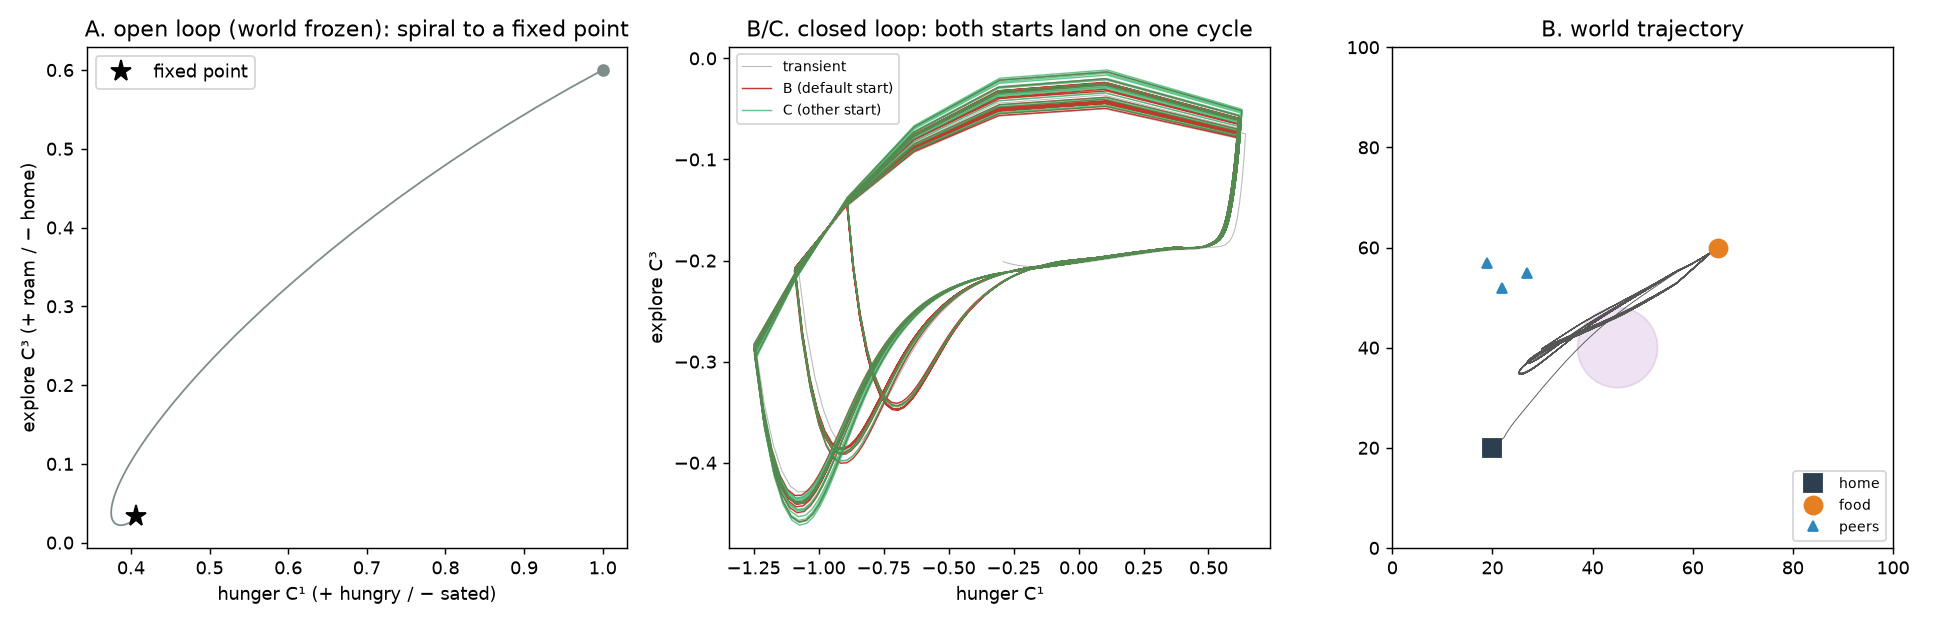
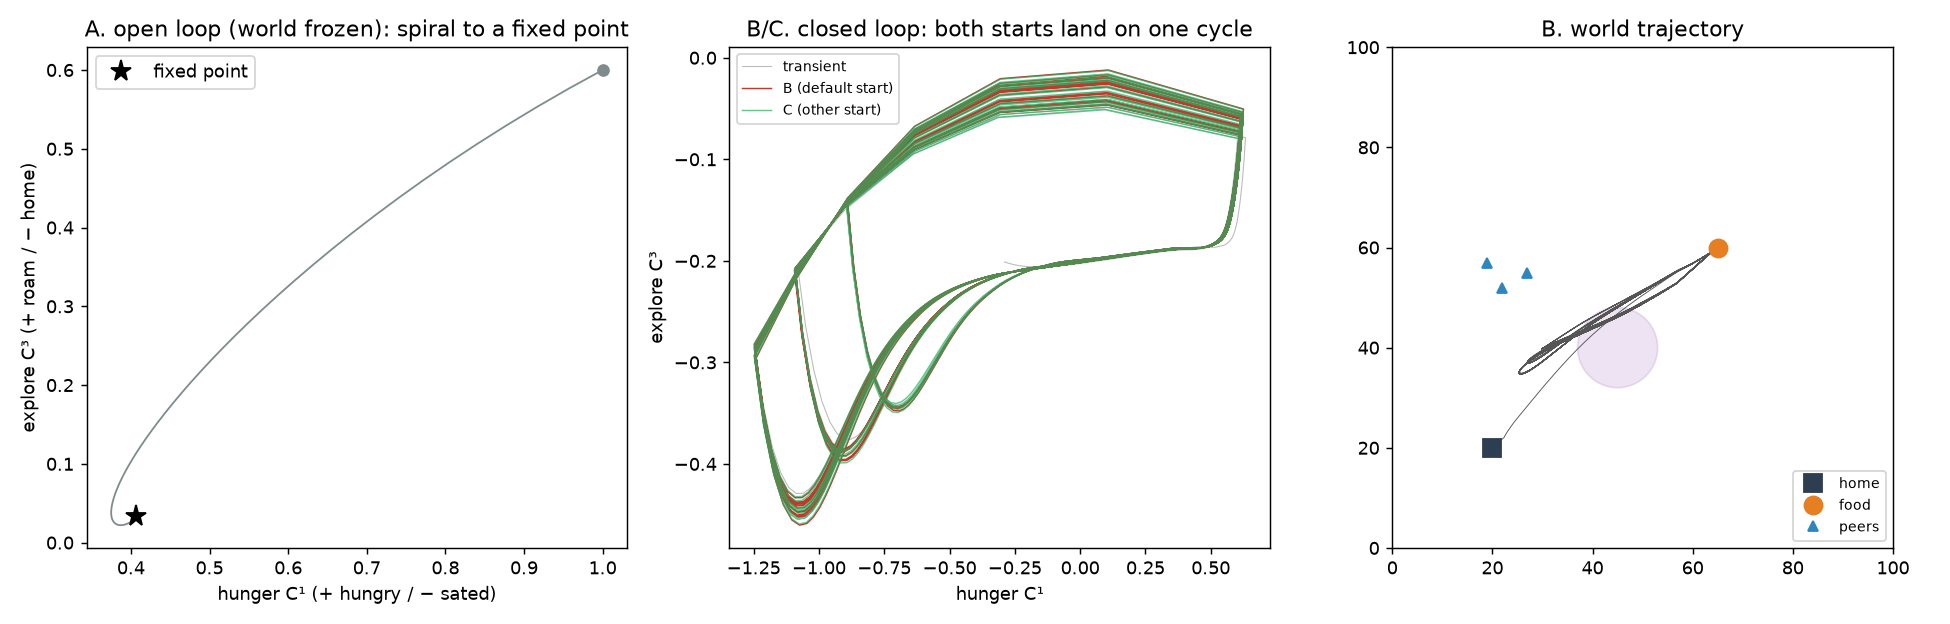
Run experiments in parallel; re-run E1-E6 under the current model
experiments/common.py gains pmap(): independent runs go to a process pool
(explicit fork context; Python 3.14 defaults to forkserver). E1, E3, E6 and
E8 use it, and run_all.sh starts all experiments at once with per-experiment
logs. Full suite: ~3 min instead of ~25 on 12 cores. Seeded runs give
identical results; verified serial == parallel for E3, E6 and E8.

E1-E6 re-run after the frame law: README numbers updated, and the E2/E6
reading text corrected (reactive 10-20 s; gossip timing beyond two hops is
at noise level).

diff --git a/experiments/e8_sequence_memory.py b/experiments/e8_sequence_memory.py
@@ -18,7 +18,7 @@ import os
 os.environ.setdefault("OPENBLAS_NUM_THREADS", "1")
 import numpy as np  # noqa: E402
 
-from common import outdir, plt, save, write_summary  # noqa: E402
+from common import outdir, plt, pmap, save, write_summary  # noqa: E402
 
 from cliffnpc.arena import NPC_FACTION, Arena, ArenaConfig  # noqa: E402
 from cliffnpc.config import LTMConfig  # noqa: E402
@@ -49,43 +49,48 @@ def replay_outcomes(log, n_npcs, horizon_ticks=20):
 CONDITIONS = {"lambda=2": LTMConfig(loss_aversion=2.0),
               "lambda=1": LTMConfig(loss_aversion=1.0),
               "off": None}
+def one_run(job):
+    """One (condition, seed) arena run; returns its stats (and the arena kept for plots)."""
+    name, sd = job
+    ltm_cfg = CONDITIONS[name]
+    use = ltm_cfg is not None
+    ar = Arena(ArenaConfig(seed=sd, ltm=ltm_cfg))
+    log = ar.run(T)
+    n = ar.cfg.n_npcs
+    r = dict(
+        pain=float(log["pain"][:, :n].mean()),
+        engagements=len(ar.engagements),
+        solo=sum(e["n_max"] == 1 for e in ar.engagements),
+        npc_injury=float(sum(e["npc_taken"] for e in ar.engagements)),
+        immobile=float((~log["mobile"][:, :n]).mean()),
+    )
+    if use:
+        r["replay"] = float((log["replay"][:, :n] >= 0).mean())
+        ev = [e for a in ar.agents[:n] for e in a.ltm.events]
+        r["stored_app"] = sum(e["what"] == "stored" and e["kind"] == APPETITIVE for e in ev)
+        r["stored_av"] = sum(e["what"] == "stored" and e["kind"] == AVERSIVE for e in ev)
+        r["merged"] = sum(e["what"] == "merged" for e in ev)
+        r["recalls"] = sum(e["what"] == "recalled" for e in ev)
+        r["recall_app"] = sum(e["what"] == "recalled" and e["kind"] == APPETITIVE for e in ev)
+        r["recall_av"] = sum(e["what"] == "recalled" and e["kind"] == AVERSIVE for e in ev)
+        av = [e for e in ev if e["what"] == "recalled" and e["kind"] == AVERSIVE]
+        r["relief_pain"] = float(np.mean([e["pain_now"] for e in av])) if av else float("nan")
+        r["relief_painless"] = float(np.mean([e["pain_now"] < 0.05 for e in av])) if av else float("nan")
+        d_rep, d_rand = replay_outcomes(log, n)
+        r["dpain_replay"], r["dpain_random"] = float(d_rep.mean()), float(d_rand.mean())
+        sigs = []
+        for a in ar.agents:
+            sp = a.ltm.build_space()
+            sigs.append(sp.signature if sp else (0, 0))
+        r["signatures"] = sigs
+    return name, r, (ar if (sd == SEEDS[0] and name == "lambda=2") else None)
+
+
 rows = {name: [] for name in CONDITIONS}
 keep = None
-for name, ltm_cfg in CONDITIONS.items():
-    use = ltm_cfg is not None
-    for sd in SEEDS:
-        ar = Arena(ArenaConfig(seed=sd, ltm=ltm_cfg))
-        log = ar.run(T)
-        n = ar.cfg.n_npcs
-        r = dict(
-            pain=float(log["pain"][:, :n].mean()),
-            engagements=len(ar.engagements),
-            solo=sum(e["n_max"] == 1 for e in ar.engagements),
-            npc_injury=float(sum(e["npc_taken"] for e in ar.engagements)),
-            immobile=float((~log["mobile"][:, :n]).mean()),
-        )
-        if use:
-            r["replay"] = float((log["replay"][:, :n] >= 0).mean())
-            ev = [e for a in ar.agents[:n] for e in a.ltm.events]
-            r["stored_app"] = sum(e["what"] == "stored" and e["kind"] == APPETITIVE for e in ev)
-            r["stored_av"] = sum(e["what"] == "stored" and e["kind"] == AVERSIVE for e in ev)
-            r["merged"] = sum(e["what"] == "merged" for e in ev)
-            r["recalls"] = sum(e["what"] == "recalled" for e in ev)
-            r["recall_app"] = sum(e["what"] == "recalled" and e["kind"] == APPETITIVE for e in ev)
-            r["recall_av"] = sum(e["what"] == "recalled" and e["kind"] == AVERSIVE for e in ev)
-            av = [e for e in ev if e["what"] == "recalled" and e["kind"] == AVERSIVE]
-            r["relief_pain"] = float(np.mean([e["pain_now"] for e in av])) if av else float("nan")
-            r["relief_painless"] = float(np.mean([e["pain_now"] < 0.05 for e in av])) if av else float("nan")
-            d_rep, d_rand = replay_outcomes(log, n)
-            r["dpain_replay"], r["dpain_random"] = float(d_rep.mean()), float(d_rand.mean())
-            sigs = []
-            for a in ar.agents:
-                sp = a.ltm.build_space()
-                sigs.append(sp.signature if sp else (0, 0))
-            r["signatures"] = sigs
-            if sd == SEEDS[0] and name == "lambda=2":
-                keep = ar
-        rows[name].append(r)
+for name, r, ar in pmap(one_run, [(n, sd) for n in CONDITIONS for sd in SEEDS]):
+    rows[name].append(r)
+    keep = ar if ar is not None else keep
 
 # ---- memory Clifford space of one NPC -------------------------------------
 a0 = next(a for a in keep.agents if a.faction == NPC_FACTION and (a.ltm.slots["active"] == 1).sum() >= 4)

diff --git a/experiments/e6_village.py b/experiments/e6_village.py
@@ -23,7 +23,7 @@ import time
 os.environ.setdefault("OPENBLAS_NUM_THREADS", "1")  # tiny matrices: threads only add overhead
 import numpy as np  # noqa: E402
 
-from common import outdir, plt, save, write_summary
+from common import outdir, plt, pmap, save, write_summary
 
 from cliffnpc import algebra as ga
 from cliffnpc.config import Config
@@ -77,13 +77,21 @@ def demote_episodic(v):
     lod["demoted"] = (i, n_eps, folds_before, np.linalg.norm(a.g - g_before))
 
 
+def one_village(job):
+    """One (gossip, event) village run; returns the village, its log and the LOD records."""
+    gossip, event = job
+    v = build(gossip, event)
+    lod_events = {T_PROMOTE: promote_far, T_DEMOTE: demote_episodic} if (gossip and event) else {}
+    log = v.run(T, lod_events)
+    return job, v, log, dict(lod)
+
+
 t0 = time.time()
 runs = {}
-for gossip in (True, False):
-    for event in (True, False):
-        v = build(gossip, event)
-        lod_events = {T_PROMOTE: promote_far, T_DEMOTE: demote_episodic} if (gossip and event) else {}
-        runs[gossip, event] = (v, v.run(T, lod_events))
+for job, v_, log_, lod_ in pmap(one_village, [(g, e) for g in (True, False) for e in (True, False)]):
+    runs[job] = (v_, log_)
+    if job == (True, True):
+        lod.update(lod_)
 elapsed = time.time() - t0
 
 v, log = runs[True, True]
@@ -198,9 +206,10 @@ lines += [
     f"(plus {dfold} folded earlier on eviction); |delta g| from the consolidation = {ddg:.4f}.",
     "",
     "Reading:",
-    "  * With gossip the footprint travels outward along the social graph: the time to reach half its",
-    "    peak grows with every hop, and the size drops sharply after the first hop.  Reputation and",
-    "    fear spread as a change in how people feel, not as stored facts.",
+    "  * With gossip the footprint travels outward along the social graph: it reaches the first hops",
+    "    later and much smaller (see half-peak times and peaks above).  Beyond about two hops it is at",
+    "    the level of behavioural noise, so timing there is not meaningful.  Reputation and fear spread",
+    "    as a change in how people feel, not as stored facts.",
     "  * Gossip also comforts the victims: the directly hit villagers end up with a smaller footprint",
     "    than without gossip, because their neighbours' calmer metrics pull them back.",
     "  * Without gossip, footprints beyond distance 0 are not transmitted metric.  They come from",

diff --git a/experiments/common.py b/experiments/common.py
@@ -2,7 +2,10 @@
 
 from __future__ import annotations
 
+import multiprocessing
+import os
 import sys
+from concurrent.futures import ProcessPoolExecutor
 from pathlib import Path
 
 import matplotlib
@@ -15,6 +18,25 @@ sys.path.insert(0, str(ROOT))
 
 DRIVE_LABELS = ["hunger e1", "social e2", "explore e3", "threat e4"]
 DRIVE_COLORS = ["#c0392b", "#2e86c1", "#27ae60", "#8e44ad"]
+
+
+def pmap(fn, items, workers: int | None = None) -> list:
+    """Map `fn` over independent runs in parallel processes, results in order.
+
+    Runs are seeded, so the results are identical to a serial loop.  Uses the
+    "fork" start method explicitly: Python 3.14 defaults to "forkserver", which
+    would re-execute the experiment script in every worker.  Set
+    CLIFFNPC_WORKERS=1 to run serially (e.g. for debugging).
+    """
+    items = list(items)
+    if workers is None:
+        workers = int(os.environ.get("CLIFFNPC_WORKERS", os.cpu_count() or 1))
+    workers = max(1, min(workers, len(items)))
+    if workers == 1:
+        return [fn(x) for x in items]
+    ctx = multiprocessing.get_context("fork")
+    with ProcessPoolExecutor(max_workers=workers, mp_context=ctx) as ex:
+        return list(ex.map(fn, items))
 
 
 def outdir(name: str) -> Path:

diff --git a/experiments/e3_order.py b/experiments/e3_order.py
@@ -23,7 +23,7 @@ Three learning-law variants separate the sources of order dependence:
 
 import numpy as np
 
-from common import outdir, plt, save, write_summary
+from common import outdir, plt, pmap, save, write_summary
 
 from cliffnpc import algebra as ga
 from cliffnpc.config import Config
@@ -73,8 +73,17 @@ variants = {
     "... and no sensitivity/frustration scaling": dict(forget=False, felt=False, scales=False),
 }
 rows, logs = [], {}
+
+
+def _run(job):
+    order, kw = job
+    return run(order, **kw)
+
+
+jobs = [(order, kw) for kw in variants.values() for order in ("TF", "FT")]
+results = iter(pmap(_run, jobs))
 for name, kw in variants.items():
-    a, b = run("TF", **kw), run("FT", **kw)
+    a, b = next(results), next(results)
     logs[name] = (a, b)
     gA, gB = a["g"][-1], b["g"][-1]
     g0 = ga.ETA

diff --git a/experiments/e1_foraging.py b/experiments/e1_foraging.py
@@ -13,7 +13,7 @@ Three conditions, no threat:
 
 import numpy as np
 
-from common import DRIVE_COLORS, DRIVE_LABELS, outdir, plt, save, write_summary
+from common import DRIVE_COLORS, DRIVE_LABELS, outdir, plt, pmap, save, write_summary
 
 from cliffnpc import algebra as ga
 from cliffnpc.cognition import NPC
@@ -57,8 +57,11 @@ def cycle_stats(t, C1, t_min=300.0):
     return periods, np.array(amps)
 
 
-cfg, logB = closed_loop()
-_, logC = closed_loop(C_init=[1.0, 0.1, 0.6, -0.05], seed=3)
+def _closed(job):
+    return closed_loop(*job)
+
+
+(cfg, logB), (_, logC) = pmap(_closed, [(None, 0), ([1.0, 0.1, 0.6, -0.05], 3)])
 trajA = open_loop([1.0, 0.1, 0.6, -0.05], cfg)
 
 tB, CB = logB["t"], logB["C"]

diff --git a/experiments/e2_lightcone.py b/experiments/e2_lightcone.py
@@ -154,7 +154,7 @@ lines += [
     "  Each threat approach pushes the state through the null cone a few seconds before contact, and",
     "  steering becomes threat-dominated.  This temperament fights (C⁴ > 0, approach): it was hungry and",
     "  home-leaning, and the e34 generator M(e4,e3) turns 'home' into 'fight' (the sign of C³ when the",
-    "  threat arrives picks fight or flight, see coupling.CHANNELS).  It stays reactive for ~15-25 s",
+    "  threat arrives picks fight or flight, see coupling.CHANNELS).  It stays reactive for ~10-20 s",
     "  because threat damping is the slowest (fear lingers).",
 ]
 for tc, dur, Cb, Ca in transits:

diff --git a/README.md b/README.md
@@ -42,9 +42,21 @@ tests/          67 tests
 ```bash
 cd /home/joe/projects/cliffnpc-demo
 .venv/bin/python -m pytest -q          # 67 tests, ~20 s
-experiments/run_all.sh                 # all experiments; e6 ~4 min, e8 ~15 min
+experiments/run_all.sh                 # all experiments in parallel, ~3 min on 12 cores
 .venv/bin/python experiments/e2_lightcone.py   # or one at a time
 ```
+
+Runs never draw anything, so they go as fast as the CPU allows: the single NPC
+runs ~100× real time, the 6-agent arena ~20×, the 30-agent village ~5×. The
+bottleneck is Python/NumPy overhead on many tiny 4×4 operations, not arithmetic.
+
+`run_all.sh` starts all experiments at once, and each experiment spreads its
+independent runs (seeds, conditions) over worker processes (`experiments/common.py:
+pmap`). Processes, not threads: this Python build has the GIL, and one simulation's
+agents are too few to split. Every run is seeded, so parallel results are identical
+to serial ones; checked for E3, E6 and E8. The full suite takes ~3 min instead of
+~25. Set `CLIFFNPC_WORKERS=1` to run serially. Each experiment's output goes to
+`experiments/out/<name>/run.log`.
 
 The venv was created with `python3 -m venv .venv && .venv/bin/pip install numpy
 scipy matplotlib pytest` (Python 3.14, NumPy 2.5, SciPy 1.18).
@@ -115,9 +127,8 @@ retreats after contact.
 
 ## Results (numbers from `experiments/out/*/summary.txt`)
 
-> E1–E6 were produced before the frame law (commit `3c69583`) changed how every
-> frame update is applied. They have not been re-run since, so treat their exact
-> numbers as from the earlier model. Re-run with `experiments/run_all.sh`.
+All numbers are from the current model (frame law included); E1–E6 were re-run
+after it.
 
 **Phase 1 tests.** All required tests pass: `Mᵀg + gM = 0` for random (3,1)
 metrics; rotor steps (clamped or not) preserve `s` to 1e-9; plane classification,
@@ -128,12 +139,12 @@ identity.
 **E1 Foraging.** Yes, a limit cycle emerges, but **only through the world loop**.
 Rotation + drift + damping is an affine linear ODE, so in drive space alone it
 can only spiral into a fixed point; the open-loop run shows exactly that. Closed
-loop: period 43.4 ± 1.7 s, hunger amplitude 1.72. A different initial state
-converges to the same cycle (44.4 s, 1.79).
+loop: period 44.0 ± 1.6 s, hunger amplitude 1.76. A different initial state
+converges to the same cycle (43.5 s, 1.73).
 
 **E2 Light-cone snap.** Every threat approach (4 of 4) carries the state from
 s > 0 to s < 0 a few seconds before contact. Steering becomes threat-dominated
-(this temperament fights) and stays reactive for 16–24 s. **Correction to §2.3:**
+(this temperament fights) and stays reactive for 10–22 s. **Correction to §2.3:**
 boosts are isometries and can never cross the cone on their own (`|Δs| = 1e-13`
 under a pure boost). The crossing needs a non-isometric partner, here per-drive
 damping with γ_explore > γ_threat ("fear lingers longer than curiosity"). That
@@ -143,9 +154,9 @@ still decaying and the state briefly snaps.
 
 **E3 Order dependence.** The final g depends on event order: ‖Δg‖ is 84% of the
 surviving change with forgetting on. That is mostly **recency**, though.
-Without forgetting the path dependence is 1.5–1.8%, and it comes from the
+Without forgetting the path dependence is 1.5–1.7%, and it comes from the
 state-dependent scales (|g^ii| sensitivities, frustration). With those off it
-drops to 3e-5. **Finding for §5.2:** a Lie-group update `L ← exp(εA)L` whose image
+drops to 4e-4 (the frame law's nonlinearity adds a little; before it, 3e-5). **Finding for §5.2:** a Lie-group update `L ← exp(εA)L` whose image
 in g doesn't depend on g induces an *additive* flow on g, so non-commutativity
 only appears at O(ε²). Real "trauma then comfort ≠ comfort then trauma" needs a
 generator that depends on the current geometry at first order, or large
@@ -160,7 +171,8 @@ several times more than the metric.
 (46.08°) whatever its shape, and an outside loop gives exactly 0. With dynamics
 on, damping undoes the imprint in the drive values within ~4 s. But the NPC
 is on the foraging limit cycle, whose phase is neutrally stable, so the haunted
-loops leave a **lasting ~2 s shift in meal times**. Memory of place persists in
+loops leave a **lasting shift in meal times** that never decays back to zero
+(between −3.8 and +2.4 s over the next 300 s). Memory of place persists in
 behaviour timing, not in the drives.
 
 **E5 Personality threshold.** e2∧e3 is elliptic for |g23| < 1, parabolic at ±1 and
@@ -173,14 +185,16 @@ safety cap).
 
 **E6 Village (Phase 3).** 30 villagers (3 episodic, 9 metric, 18 background) on a
 small-world graph. The attack is sensed by 3 villagers, and the event's footprint
-is measured against a no-event twin run. With gossip it moves outward hop by hop:
-the time to half of peak is 5, 17, 25, 43 and ~75 s at distances 0–5. The size
-falls sharply after one hop (peak 0.15 at distance 0, 0.014 at distance 1, ~0.004
-beyond, with only 1–5 individuals per distance). Beyond 2 hops the gossip signal is about the size of the behavioural
-noise (without gossip, the attack still perturbs everyone's trajectories a
-little). Gossip also *comforts* the victims: their footprint at t=170 s is 0.029
-with gossip vs 0.083 without. Promotion instantiates from the current collective
-metric (|g_new − g_col| = 0.03). Demotion consolidates 8 episodes chronologically.
+is measured against a no-event twin run. With gossip it moves outward: the time
+to half of peak is 5 s at distance 0, 18 s at distance 1 and 52 s at distance 2.
+The size falls sharply after one hop (peak 0.17 at distance 0, 0.016 at distance
+1, 0.003–0.008 beyond, with only 1–5 individuals per distance). Beyond 2 hops the
+gossip signal is about the size of the behavioural noise, so its timing there
+isn't meaningful (without gossip, the attack still perturbs everyone's
+trajectories a little). Gossip also *comforts* the victims: their footprint at
+t=170 s is 0.049 with gossip vs 0.085 without. Promotion instantiates from the
+current collective metric (|g_new − g_col| = 0.05). Demotion consolidates 8
+episodes chronologically.
 
 **Surprise-gated compute.** With the `"cv"` predictor and `surprise_gate=0.05`, 44%
 of cognitive ticks are skipped with identical meals and cone crossings over
@@ -343,7 +357,6 @@ yet.
 
 * Tuning is fragile. The foraging cycle and the snap both depend on the damping
   anisotropy and on eating, and all constants are in `config.py`.
-* E1–E6 predate the frame law and need a re-run.
 * The frame's orientation is recorded but doesn't yet feed back into the dynamics
   (see [Frame law](#frame-law-option-b)).
 * Pain-aversion learning finds the intended courage lesson only in some seeds;
